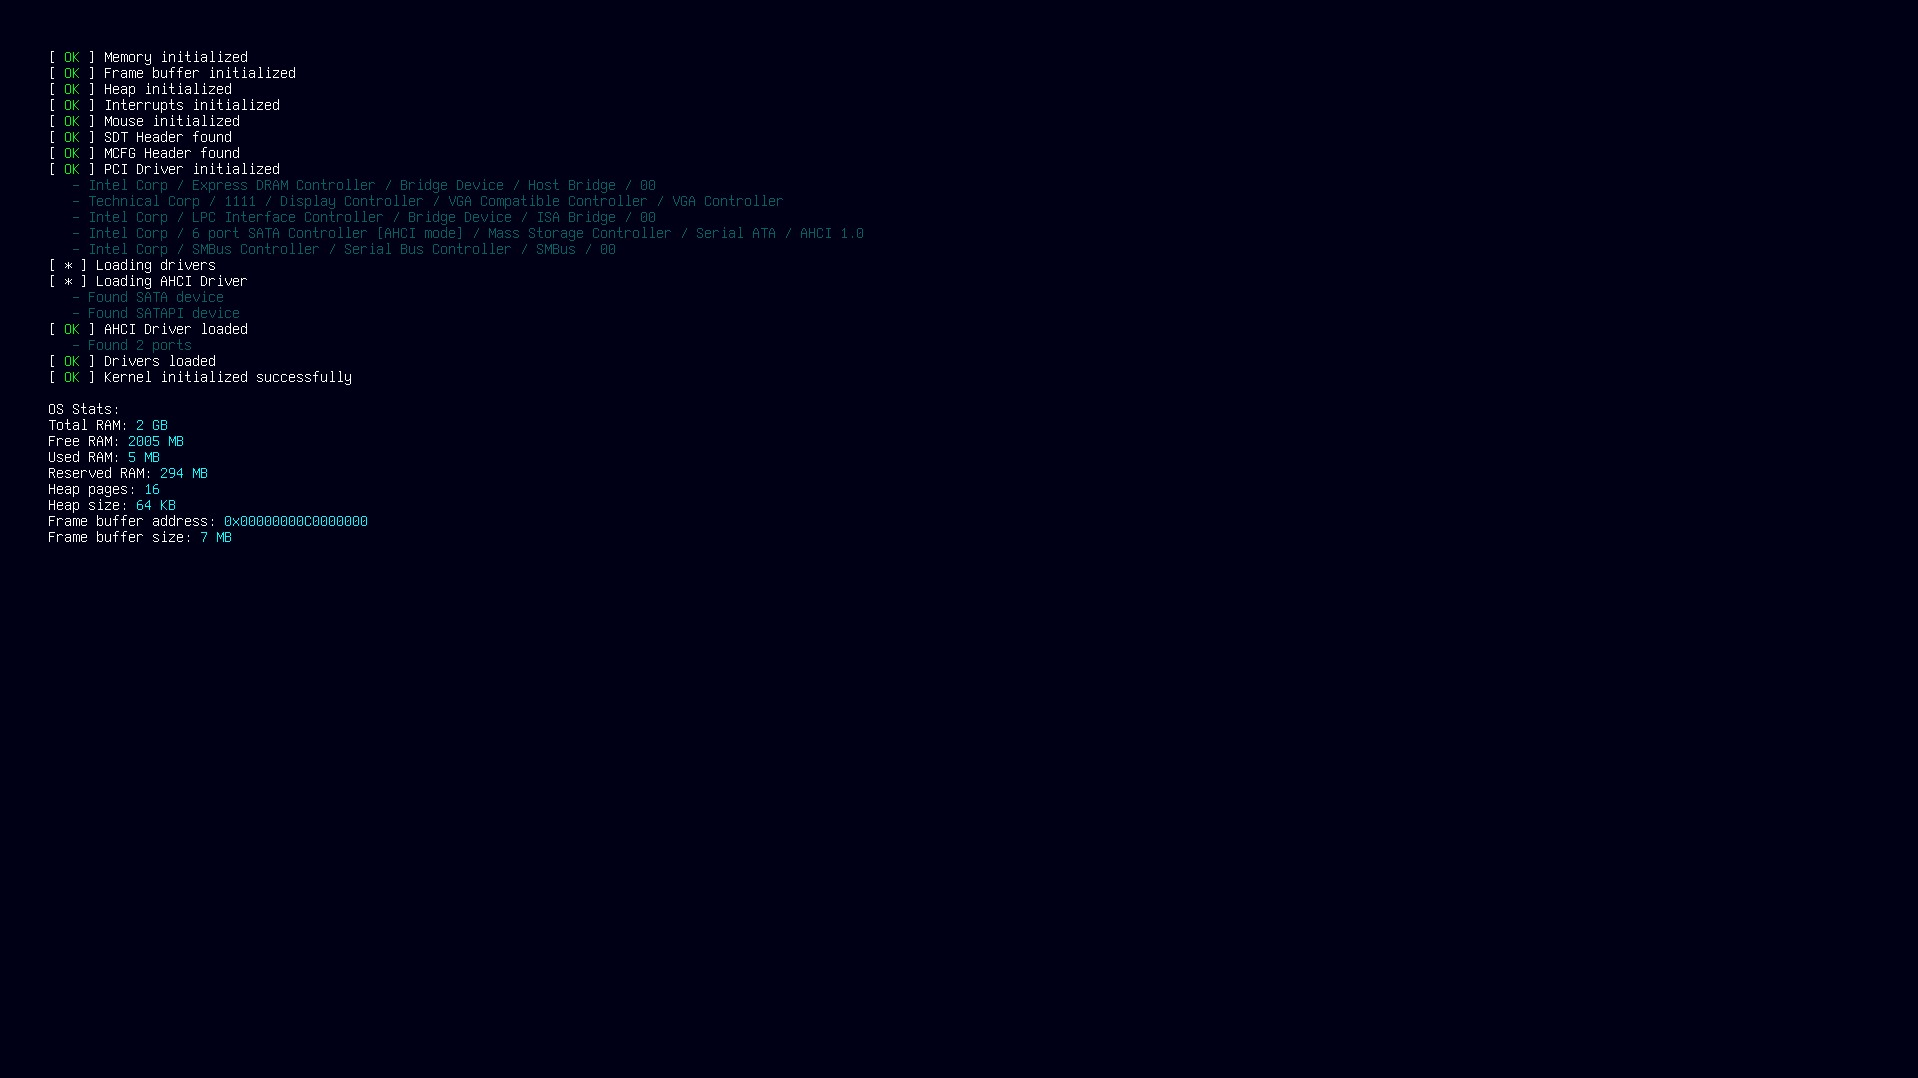
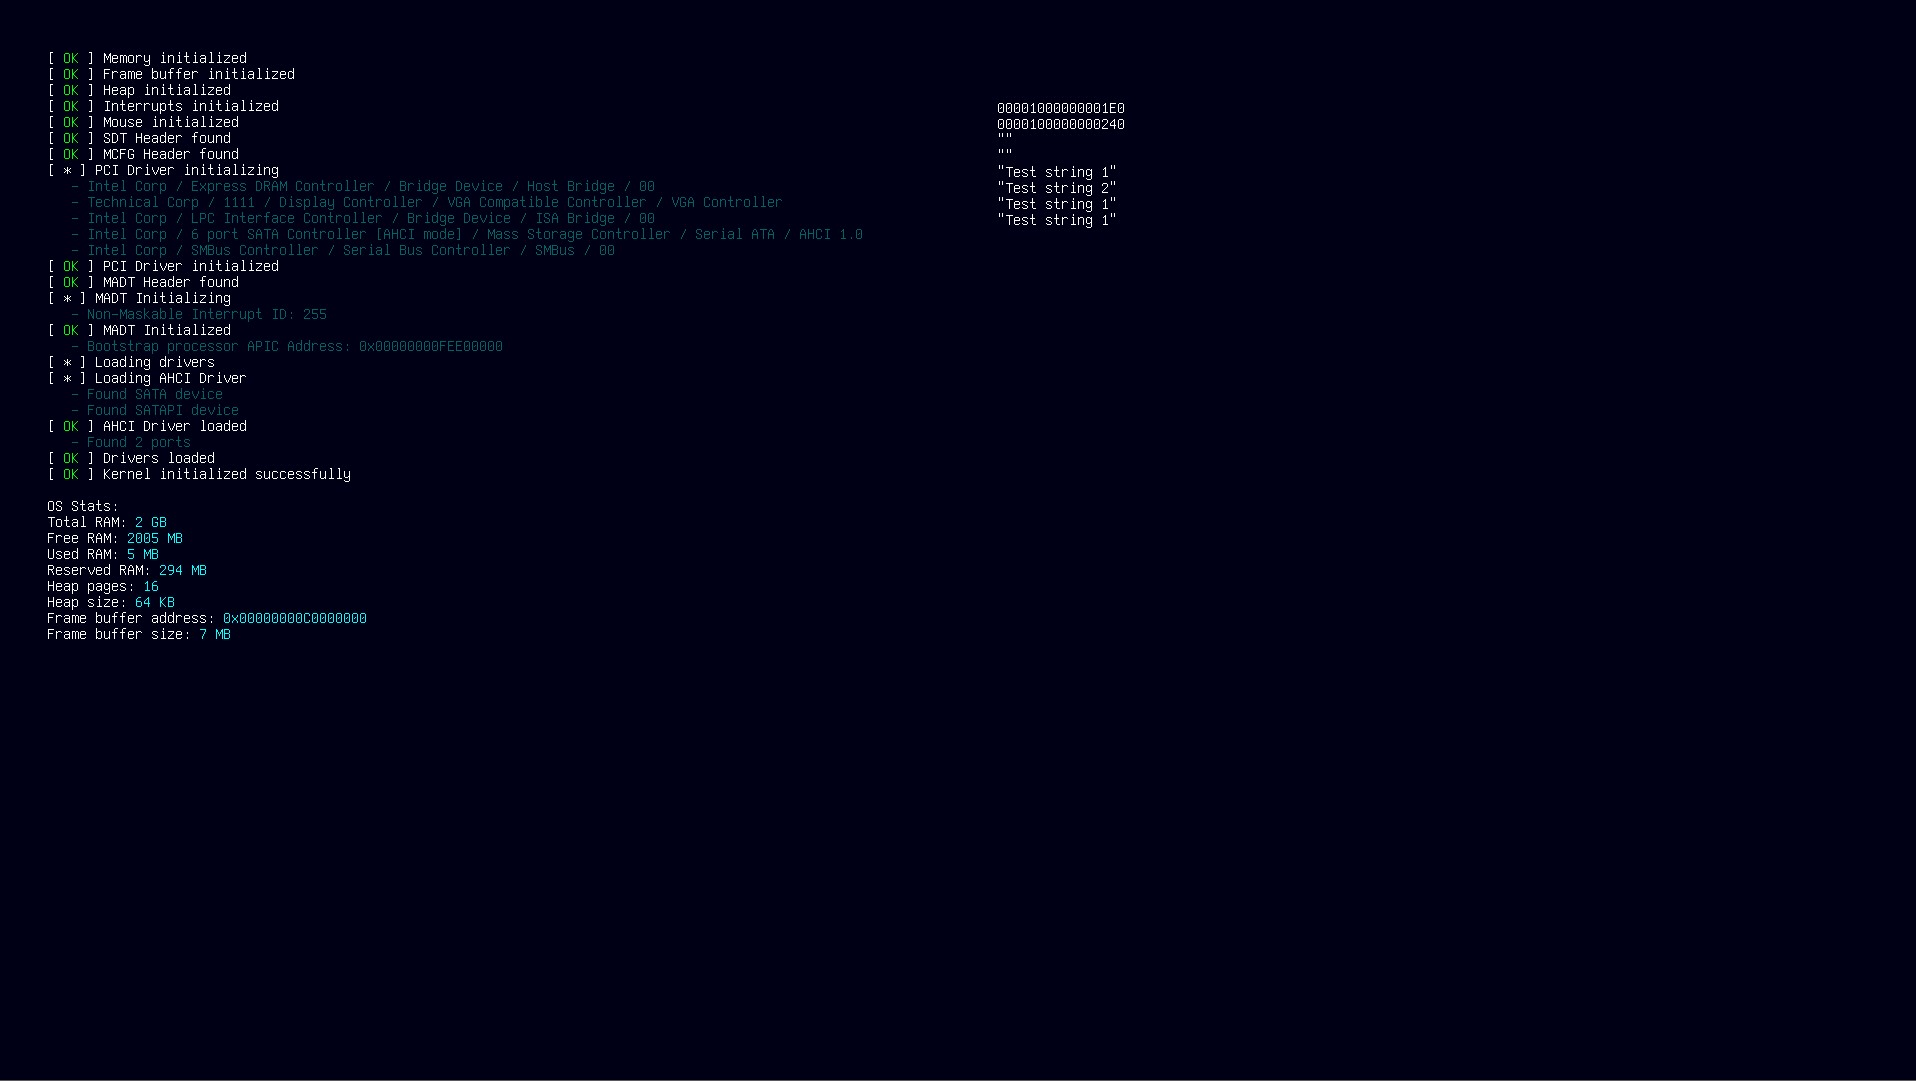
added memmove

Changed region(s): [[0.0308, 0.0306, 0.3387, 0.6122], [0.5235, 0.1531, 0.5851, 0.2143], [0.5235, 0.0918, 0.5851, 0.1224]]

diff --git a/kernel/src/kernel.cpp b/kernel/src/kernel.cpp
@@ -4,11 +4,56 @@
 #include "scheduling/pit/pit.h"
 #include "renderer/stat_logger.h"
 #include "utils/helpers.h"
+#include "library/memory.h"
 
 extern "C" void _start(BootInfo *bootInfo)
 {
   InitializeKernel(bootInfo);
 
+  char *string1 = new char[50];
+  char *string2 = new char[50];
+
+  BasicRenderer::g_Renderer.SetCursor(1000, 100);
+  BasicRenderer::g_Renderer.Print(to_hstring((uint64_t)(void*)string1));
+  BasicRenderer::g_Renderer.PutChar('\n');
+  BasicRenderer::g_Renderer.Print(to_hstring((uint64_t)(void*)string2));
+  BasicRenderer::g_Renderer.PutChar('\n');
+
+  BasicRenderer::g_Renderer.PutChar('"');
+  BasicRenderer::g_Renderer.Print(string1);
+  BasicRenderer::g_Renderer.PutChar('"');
+  BasicRenderer::g_Renderer.PutChar('\n');
+  BasicRenderer::g_Renderer.PutChar('"');
+  BasicRenderer::g_Renderer.Print(string2);
+  BasicRenderer::g_Renderer.PutChar('"');
+  BasicRenderer::g_Renderer.PutChar('\n');
+
+  memcpy(string1, "Test string 1\0", 14);
+  memcpy(string2, "Test string 2\0", 14);
+
+  BasicRenderer::g_Renderer.PutChar('"');
+  BasicRenderer::g_Renderer.Print(string1);
+  BasicRenderer::g_Renderer.PutChar('"');
+  BasicRenderer::g_Renderer.PutChar('\n');
+  BasicRenderer::g_Renderer.PutChar('"');
+  BasicRenderer::g_Renderer.Print(string2);
+  BasicRenderer::g_Renderer.PutChar('"');
+  BasicRenderer::g_Renderer.PutChar('\n');
+
+  memmove(string2, string1, 14);
+
+  BasicRenderer::g_Renderer.PutChar('"');
+  BasicRenderer::g_Renderer.Print(string1);
+  BasicRenderer::g_Renderer.PutChar('"');
+  BasicRenderer::g_Renderer.PutChar('\n');
+  BasicRenderer::g_Renderer.PutChar('"');
+  BasicRenderer::g_Renderer.Print(string2);
+  BasicRenderer::g_Renderer.PutChar('"');
+  BasicRenderer::g_Renderer.PutChar('\n');
+
+  delete [] string1;
+  delete [] string2;
+  
   // // Allocated some random memory
   // void *mem = memory::malloc(sizeof(uint64_t) * 1000000);
   // ShowStats(1100, 250);

diff --git a/kernel/src/library/memory/memmove.cpp b/kernel/src/library/memory/memmove.cpp
@@ -1,0 +1,18 @@
+#include "memmove.h"
+
+void *memmove(void *__restrict__ dest, const void *__restrict__ src, size_t n)
+{
+  char *csrc = (char *)src;
+  char *cdest = (char *)dest;
+
+  char *temp = new char[n];
+
+  for (size_t i=0; i<n; i++)
+    temp[i] = csrc[i];
+
+  for (size_t i=0; i<n; i++)
+    cdest[i] = temp[i];
+
+  delete [] temp;
+  return cdest;
+}

diff --git a/kernel/src/library/memory/memcpy.cpp b/kernel/src/library/memory/memcpy.cpp
@@ -6,5 +6,5 @@ void *memcpy(void *__restrict__ dest, const void *__restrict__ src, size_t n)
   char *cdest = (char *)dest;
 
   for (; n; n--) *cdest++ = *csrc++;
-	return dest;
+	return cdest;
 }

diff --git a/kernel/src/library/memory/memmove.h b/kernel/src/library/memory/memmove.h
@@ -1,0 +1,5 @@
+#pragma once
+
+#include "stddef.h"
+
+void *memmove(void *__restrict__ dest, const void *__restrict__ src, size_t n);

diff --git a/kernel/src/library/memory.h b/kernel/src/library/memory.h
@@ -2,3 +2,4 @@
 
 #include "memory/memcpy.h"
 #include "memory/memset.h"
+#include "memory/memmove.h"
